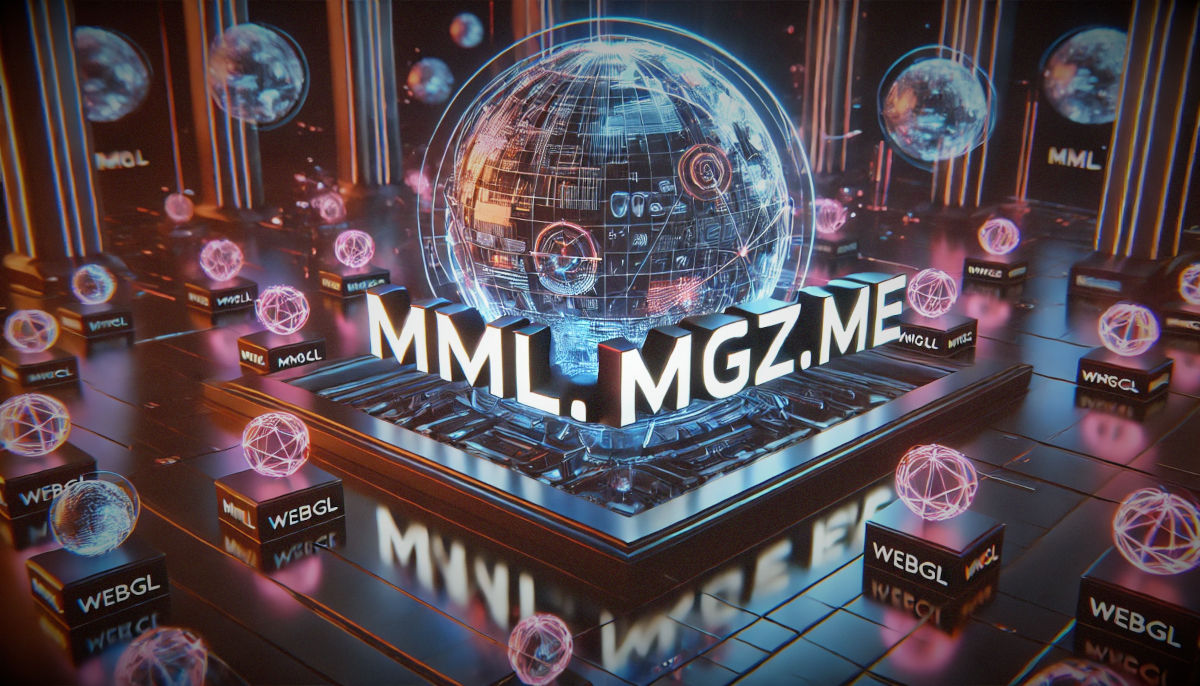
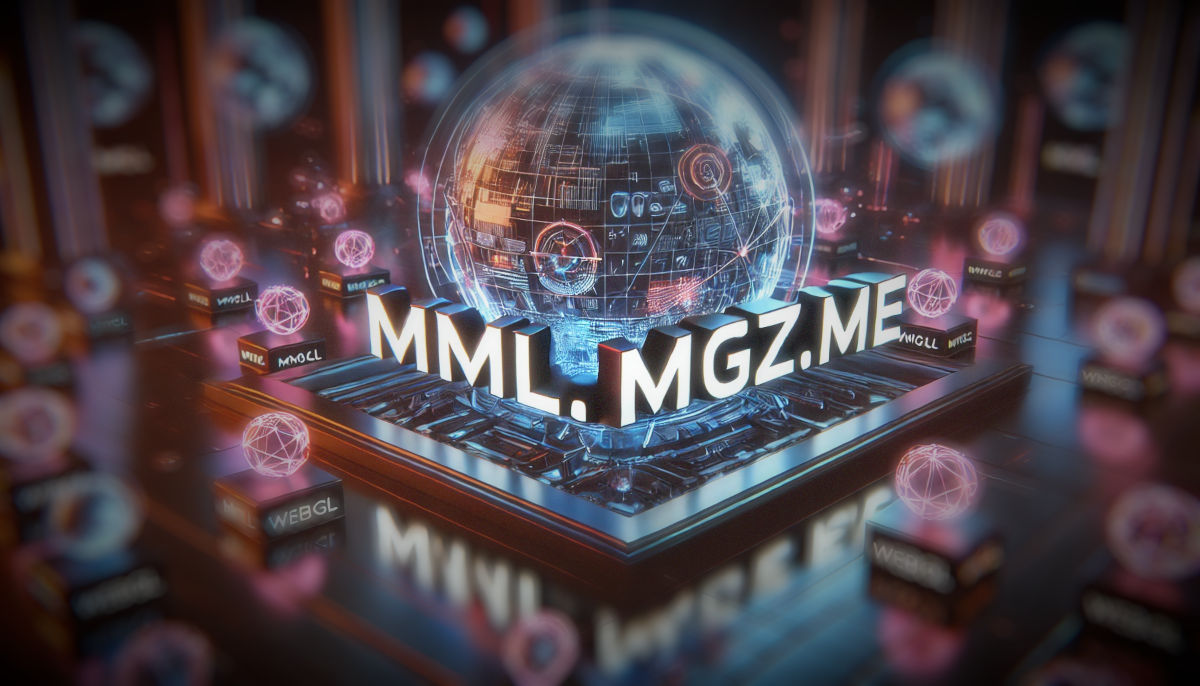
updates loading screen

diff --git a/example/multi-user-3d-web-experience/client/src/index.ts b/example/multi-user-3d-web-experience/client/src/index.ts
@@ -2,7 +2,7 @@ import { AnimationConfig, AnimationSettings } from "@mml-io/3d-web-client-core";
 import { Networked3dWebExperienceClient } from "@mml-io/3d-web-experience-client";
 
 import hdrJpgUrl from "../../../assets/hdr/puresky_2k.jpg";
-import loadingBackground from "../../../assets/images/loading-bg.jpg";
+import loadingBackground from "../../../assets/images/3d-web-experience.jpg";
 import airAnimationFileUrl from "../../../assets/models/anim_air.glb";
 import altFrontFlipFileUrl from "../../../assets/models/anim_alt_frontflip.glb";
 import backFlipFileUrl from "../../../assets/models/anim_backflip.glb";
@@ -119,9 +119,9 @@ const app = new Networked3dWebExperienceClient(holder, {
     background: "#424242",
     color: "#ffffff",
     backgroundImageUrl: loadingBackground,
-    backgroundBlurAmount: 12,
-    title: "mml.mgz.me",
-    subtitle: "The 3D Web Experience",
+    backgroundBlurAmount: 3,
+    title: "The 3D Web Experience",
+    subtitle: "https://mml.mgz.me",
   },
 });
 
